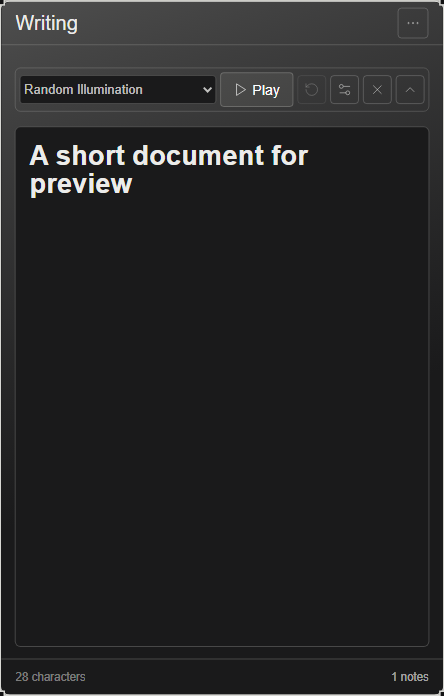
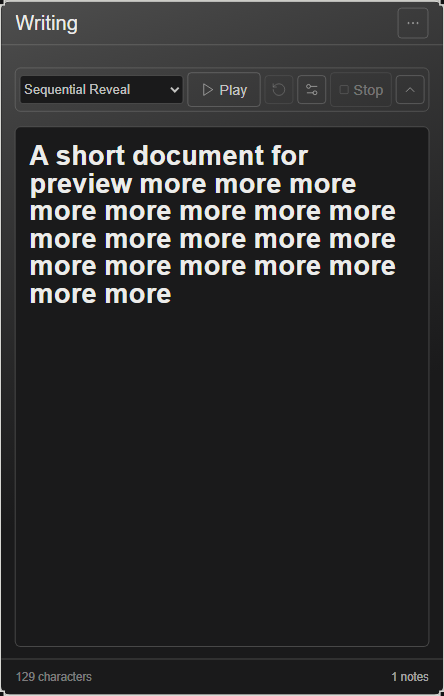
Let animations play with controls fully hidden

diff --git a/src/animations/AnimationControls.tsx b/src/animations/AnimationControls.tsx
@@ -1,6 +1,5 @@
 import { useEffect, useState } from 'react'
-import { createPortal } from 'react-dom'
-import { ChevronDown, ChevronUp, Play, Pause, RotateCcw, Settings2, X } from 'lucide-react'
+import { ChevronUp, Play, Pause, RotateCcw, Settings2, Square } from 'lucide-react'
 import type { NoteDocument } from '../types'
 import { panelContentProps } from '../panelSurface'
 import { AnimationPreview } from './AnimationPreview'
@@ -10,10 +9,9 @@ import { validateAnimationCss } from './css'
 import './animations.css'
 
 /** Panel-local playback and authoring state; definitions alone are persisted. */
-export function AnimationControls({ panelId, sourceElement, toolbarHost, writingMode, document, optionsOpen, onOptionsClose, managerOpen, onManagerOpen, onManagerClose, onPreviewChange }: {
+export function AnimationControls({ panelId, sourceElement, writingMode, document, optionsOpen, onOptionsClose, managerOpen, onManagerOpen, onManagerClose, onPreviewChange }: {
   panelId: string
   sourceElement: HTMLElement | null
-  toolbarHost: HTMLElement | null
   writingMode: boolean
   document: NoteDocument | null
   optionsOpen: boolean
@@ -28,7 +26,6 @@ export function AnimationControls({ panelId, sourceElement, toolbarHost, writing
   const [selectedId, setSelectedId] = useState(builtInAnimations[0].id)
   const [editCss, setEditCss] = useState(false)
   const [status, setStatus] = useState('')
-  const [optionsCollapsed, setOptionsCollapsed] = useState(false)
   const [playbackDefinition, setPlaybackDefinition] = useState<AnimationDefinition | null>(null)
   const [playing, setPlaying] = useState(false)
   const [finished, setFinished] = useState(false)
@@ -36,7 +33,6 @@ export function AnimationControls({ panelId, sourceElement, toolbarHost, writing
 
   useEffect(() => () => onPreviewChange(false), [onPreviewChange])
   useEffect(() => { if (managerOpen) setCustom(loadCustomAnimations()) }, [managerOpen])
-  useEffect(() => { if (!optionsOpen) setOptionsCollapsed(false) }, [optionsOpen])
 
   const savedDefinitions = [...builtInAnimations, ...custom]
   const unsavedDefinitions = Object.values(drafts).filter(draft => !savedDefinitions.some(saved => saved.id === draft.id))
@@ -104,18 +100,9 @@ export function AnimationControls({ panelId, sourceElement, toolbarHost, writing
   function exit() { setPlaying(false); setPlaybackDefinition(null); onPreviewChange(false) }
   function playOrPause() { if (playbackDefinition) togglePlayback(); else preview() }
 
-  const playbackToolbar = playbackDefinition ? <div className="animation-playback-toolbar" role="toolbar" aria-label="Animation playback">
-    <button type="button" className="card-icon-button" aria-label={playing ? 'Pause animation' : 'Play animation'} title={playing ? 'Pause' : 'Play'} onClick={togglePlayback}>{playing ? <Pause size={16} /> : <Play size={16} />}</button>
-    <button type="button" className="card-icon-button" aria-label="Replay animation" title="Replay" onClick={replay}><RotateCcw size={16} /></button>
-    <strong className="animation-playback-name" title={playbackDefinition.name}>{playbackDefinition.name}</strong>
-    <button type="button" className="card-icon-button" aria-label="Animation settings" title="Animation settings" onClick={onManagerOpen}><Settings2 size={16} /></button>
-    <button type="button" className="card-icon-button" aria-label="Exit animation" title="Exit animation" onClick={exit}><X size={16} /></button>
-  </div> : null
-
   return <>
     {optionsOpen && <div className="animation-options-host" {...panelContentProps}>
-      <div className={`animation-options-strip${optionsCollapsed ? ' is-collapsed' : ''}`} role="toolbar" aria-label="Animation options">
-        {optionsCollapsed ? <button type="button" className="app-chrome-control animation-options-reveal" aria-label="Show animation options" title="Show animation options" onClick={() => setOptionsCollapsed(false)}>Animations <ChevronDown size={16} /></button> : <>
+      <div className="animation-options-strip" role="toolbar" aria-label="Animation options">
         <select className="app-dropdown" aria-label="Animation" value={selected.id} onChange={event => select(event.target.value)}>
           <optgroup label="Built-in animations">{definitions.filter(definition => !definition.id.startsWith('custom-')).map(definition => <option key={definition.id} value={definition.id}>{definition.name}</option>)}</optgroup>
           {definitions.some(definition => definition.id.startsWith('custom-')) && <optgroup label="Custom animations">{definitions.filter(definition => definition.id.startsWith('custom-')).map(definition => <option key={definition.id} value={definition.id}>{definition.name}</option>)}</optgroup>}
@@ -123,14 +110,12 @@ export function AnimationControls({ panelId, sourceElement, toolbarHost, writing
         <button type="button" className="app-chrome-control animation-options-play" aria-label={playing ? 'Pause animation' : 'Play animation'} title={playing ? 'Pause animation' : 'Play animation'} onClick={playOrPause}>{playing ? <Pause size={16} /> : <Play size={16} />}<span className="animation-options-action-label">{playing ? 'Pause' : 'Play'}</span></button>
         <button type="button" className="card-icon-button" aria-label="Replay animation" title="Replay animation" disabled={!playbackDefinition} onClick={replay}><RotateCcw size={16} /></button>
         <button type="button" className="card-icon-button" aria-label="Animation settings" title="Animation settings" onClick={onManagerOpen}><Settings2 size={16} /></button>
-        <button type="button" className="card-icon-button" aria-label={playbackDefinition ? 'Exit animation' : 'Close animation options'} title={playbackDefinition ? 'Exit animation' : 'Close animation options'} onClick={playbackDefinition ? exit : onOptionsClose}><X size={16} /></button>
-        <button type="button" className="card-icon-button" aria-label="Hide animation options" title="Hide animation options" onClick={() => setOptionsCollapsed(true)}><ChevronUp size={16} /></button>
-        </>}
+        <button type="button" className="app-chrome-control animation-options-stop" aria-label="Stop animation" title="Stop animation" disabled={!playbackDefinition} onClick={exit}><Square size={14} /><span className="animation-options-action-label">Stop</span></button>
+        <button type="button" className="card-icon-button" aria-label="Hide animation options" title="Hide animation options" onClick={onOptionsClose}><ChevronUp size={16} /></button>
       </div>
-      {status && !optionsCollapsed && <p className="animation-options-status" role="status">{status}</p>}
+      {status && <p className="animation-options-status" role="status">{status}</p>}
     </div>}
     {playbackDefinition && <div className="animation-playback" {...panelContentProps}>
-      {!optionsOpen && (toolbarHost ? createPortal(playbackToolbar, toolbarHost) : playbackToolbar)}
       <AnimationPreview key={`${playbackDefinition.id}:${run}`} document={document} definition={playbackDefinition} playing={playing} run={run} writingMode={writingMode} onFinish={() => { setPlaying(false); setFinished(true) }} />
     </div>}
     {managerOpen && <AnimationWindow

diff --git a/browser-tests/text-animations.spec.ts b/browser-tests/text-animations.spec.ts
@@ -8,7 +8,6 @@ async function openAnimations(panel: Locator) {
     await panel.page().getByRole('menuitemcheckbox', { name: 'Animations' }).click()
   }
   await expect(strip).toBeVisible()
-  if (await strip.getByRole('button', { name: 'Show animation options' }).isVisible()) await strip.getByRole('button', { name: 'Show animation options' }).click()
   await strip.getByRole('button', { name: 'Animation settings' }).click()
   return panel.page().getByRole('dialog', { name: 'Animation management' })
 }
@@ -18,18 +17,19 @@ test('the Animations action opens basic options below the header', async ({ page
   const note = await panelOfType(page, 'notes')
   const panel = await shapeOf(page, note.panelId)
   const editor = noteBodyOf(panel)
-  await editor.fill('A short document for preview')
+  await editor.fill(`A short document for preview ${'more '.repeat(20)}`)
   await expect(panel.getByRole('toolbar', { name: 'Animation options' })).toHaveCount(0)
   await panel.getByRole('button', { name: 'Writing panel actions' }).click()
   await page.getByRole('menuitemcheckbox', { name: 'Animations' }).click()
   const strip = panel.getByRole('toolbar', { name: 'Animation options' })
   await expect(strip).toBeVisible()
   await expect(page.getByRole('dialog', { name: 'Animation management' })).toHaveCount(0)
-  await strip.getByRole('combobox', { name: 'Animation' }).selectOption('random-illumination')
+  await strip.getByRole('combobox', { name: 'Animation' }).selectOption('sequential-reveal')
   await strip.getByRole('button', { name: 'Hide animation options' }).click()
-  await expect(strip.getByRole('combobox', { name: 'Animation' })).toHaveCount(0)
-  await strip.getByRole('button', { name: 'Show animation options' }).click()
-  await expect(strip.getByRole('combobox', { name: 'Animation' })).toHaveValue('random-illumination')
+  await expect(strip).toHaveCount(0)
+  await panel.getByRole('button', { name: 'Writing panel actions' }).click()
+  await page.getByRole('menuitemcheckbox', { name: 'Animations' }).click()
+  await expect(strip.getByRole('combobox', { name: 'Animation' })).toHaveValue('sequential-reveal')
   await panel.screenshot({ path: 'test-results/animations-basic-options.png' })
   for (const width of [320, 390, 600, 900]) {
     await dispatch(page, { kind: 'panel.resize', panelId: note.panelId, w: width, h: 650 })
@@ -47,20 +47,26 @@ test('the Animations action opens basic options below the header', async ({ page
   await strip.getByRole('button', { name: 'Play animation', exact: true }).click()
   await expect(panel.locator('.animation-preview-host')).toContainText('A short document for preview')
   await expect(strip).toBeVisible()
-  await expect(strip.getByRole('combobox', { name: 'Animation' })).toHaveValue('random-illumination')
+  await expect(strip.getByRole('combobox', { name: 'Animation' })).toHaveValue('sequential-reveal')
   await expect(strip.getByRole('button', { name: 'Pause animation' })).toBeVisible()
   const selectorDuring = await strip.getByRole('combobox', { name: 'Animation' }).boundingBox()
   expect(selectorDuring!.x).toBe(selectorBefore!.x)
   expect(selectorDuring!.width).toBe(selectorBefore!.width)
   await expect(panel.getByRole('toolbar', { name: 'Animation playback' })).toHaveCount(0)
+  const revealedBeforeHide = await panel.locator('.word[data-revealed="true"]').count()
   await strip.getByRole('button', { name: 'Hide animation options' }).click()
+  await expect(strip).toHaveCount(0)
   await expect(panel.locator('.animation-preview-host')).toBeVisible()
-  await strip.getByRole('button', { name: 'Show animation options' }).click()
-  await expect(strip.getByRole('combobox', { name: 'Animation' })).toHaveValue('random-illumination')
-  await strip.getByRole('button', { name: 'Exit animation' }).click()
+  await expect(panel.getByRole('toolbar', { name: 'Animation playback' })).toHaveCount(0)
+  await expect.poll(() => panel.locator('.word[data-revealed="true"]').count()).toBeGreaterThan(revealedBeforeHide)
+  await panel.screenshot({ path: 'test-results/animations-playback-hidden.png' })
+  await panel.getByRole('button', { name: 'Writing panel actions' }).click()
+  await page.getByRole('menuitemcheckbox', { name: 'Animations' }).click()
+  await expect(strip.getByRole('combobox', { name: 'Animation' })).toHaveValue('sequential-reveal')
+  await strip.getByRole('button', { name: 'Stop animation' }).click()
   await expect(strip.getByRole('button', { name: 'Play animation', exact: true })).toBeVisible()
   await expect(editor).toBeVisible()
-  await strip.getByRole('button', { name: 'Close animation options' }).click()
+  await strip.getByRole('button', { name: 'Hide animation options' }).click()
   await expect(strip).toHaveCount(0)
 })
 
@@ -91,7 +97,7 @@ test('start delay waits before playback and keeps its remaining time when paused
   await expect(firstWord).toHaveAttribute('data-revealed', 'true', { timeout: 3000 })
   await strip.getByRole('button', { name: 'Replay animation' }).click()
   await expect(panel.locator('.animation-preview-host .word').first()).toHaveAttribute('data-revealed', 'false')
-  await strip.getByRole('button', { name: 'Exit animation' }).click()
+  await strip.getByRole('button', { name: 'Stop animation' }).click()
   await expect(editor).toContainText('One two three four')
 })
 
@@ -159,7 +165,7 @@ test('writing stays clear; playback and authoring are separate', async ({ page }
   expect(await panel.locator('.card-title').evaluate(element => getComputedStyle(element).color)).not.toBe('rgb(255, 0, 0)')
   await manager.getByRole('button', { name: 'Close animation window' }).click()
   await panel.screenshot({ path: 'test-results/animations-playback.png' })
-  await panel.getByRole('button', { name: 'Exit animation' }).click()
+  await panel.getByRole('button', { name: 'Stop animation' }).click()
   await expect(editor).toBeVisible()
   expect(await editor.innerText()).toBe(original)
   await editor.click()
@@ -290,7 +296,7 @@ test('Editor mode can open animation management and return to writing', async ({
   const leftWindow = await page.locator('.spike-window').first().boundingBox()
   expect(wordBox!.x).toBeGreaterThan(leftWindow!.x + leftWindow!.width)
   await writing.screenshot({ path: 'test-results/animations-editor-mode.png' })
-  await writing.getByRole('button', { name: 'Exit animation' }).click()
+  await writing.getByRole('button', { name: 'Stop animation' }).click()
   await expect(editor).toBeVisible()
   await expect(editor).toContainText('Words on the page')
 })

diff --git a/src/animations/animations.css b/src/animations/animations.css
@@ -1,27 +1,15 @@
 .animation-options-host { flex: 0 0 auto; min-width: 0; width: 100%; padding-block: var(--space-detail-5) var(--space-detail-2); container-type: inline-size; }
 .animation-options-strip { box-sizing: border-box; display: flex; align-items: center; gap: var(--space-detail-1); width: min(100%, 480px); margin-inline: auto; padding: var(--space-detail-1); border: var(--border-width-hairline) solid var(--color-panel-border); border-radius: var(--radius-control); }
-.animation-options-strip.is-collapsed { width: max-content; max-width: 100%; }
 .animation-options-strip select { flex: 1 1 auto; min-width: 0; width: 0; height: var(--card-header-button-size); }
 .animation-options-strip button { flex: 0 0 auto; }
-.animation-options-strip .animation-options-play { display: inline-flex; align-items: center; justify-content: center; gap: 4px; width: 76px; }
-.animation-options-reveal { display: inline-flex; align-items: center; gap: 6px; }
+.animation-options-strip .animation-options-play, .animation-options-strip .animation-options-stop { display: inline-flex; align-items: center; justify-content: center; gap: 4px; width: 76px; }
+.animation-options-strip .animation-options-stop { width: 64px; }
 .animation-options-status { margin: 5px auto 0; max-width: 480px; color: var(--color-text-soft); font-size: var(--type-xs); }
 .canvas-panel-shell.is-full-screen .panel-notes-surface.is-writing-mode .animation-options-host { width: min(var(--writing-paper-width), calc(100% - (var(--card-padding) * 2))); margin-inline: auto; }
-@container (max-width: 350px) { .animation-options-strip .animation-options-play { width: var(--card-header-button-size); }.animation-options-action-label { display: none; } }
+@container (max-width: 350px) { .animation-options-strip .animation-options-play, .animation-options-strip .animation-options-stop { width: var(--card-header-button-size); }.animation-options-action-label { display: none; } }
 .notes-body > .animation-playback { flex: 1 1 auto; min-height: 0; }
 .animation-playback { display: flex; flex-direction: column; min-width: 0; container-type: inline-size; }
-.animation-playback-toolbar { display: flex; align-items: center; gap: 5px; min-width: 0; padding: 3px var(--card-padding); }
-.animation-playback-toolbar .card-icon-button { flex: 0 0 auto; }
-.animation-playback-name { flex: 1 1 auto; min-width: 0; overflow: hidden; white-space: nowrap; text-overflow: ellipsis; color: var(--color-text-soft); font-size: var(--font-size-notes-control-label); }
-.animation-header-toolbar { min-width: 0; }
-.animation-header-toolbar:empty { display: none; }
-.animation-header-toolbar .animation-playback-toolbar { padding: 0; }
-.animation-header-toolbar .animation-playback-name { flex: 0 1 150px; }
 .animation-preview-host { flex: 1 1 auto; min-height: 0; overflow: auto; background: var(--color-editor-bg); color: var(--color-input-text); border-radius: var(--radius-editor); }
-@container (max-width: 350px) {
-  .animation-playback-toolbar { flex-wrap: wrap; }
-  .animation-playback-name { order: -1; flex-basis: 100%; }
-}
 
 .animation-window { position: fixed; z-index: 8; display: flex; flex-direction: column; box-sizing: border-box; overflow: hidden; background: var(--panel-content-background); color: var(--text-primary); border: var(--card-border); border-radius: var(--radius-large); box-shadow: var(--shadow-panel); font-family: var(--font-family-ui); font-size: var(--type-sm); --accent: var(--accent-notes); --bg: var(--bg-notes); }
 .animation-window:focus { outline: none; }

diff --git a/src/panels/NotesPanel.tsx b/src/panels/NotesPanel.tsx
@@ -65,7 +65,6 @@ export function NotesPanel({ panelId }: { panelId: string }) {
   // The writing tools are drawn into this by the editor, which is what lets
   // them read the caret; the panel only decides where they sit.
   const toolbarHostRef = useRef<HTMLDivElement>(null)
-  const animationToolbarHostRef = useRef<HTMLDivElement>(null)
   const sectionRef = useRef<HTMLElement>(null)
   const writingMilestonesRef = useRef({ noteId: null as string | null, started: false, fiftyWords: false, twoHundredWords: false })
   const wasInWritingModeRef = useRef(isWritingMode)
@@ -278,7 +277,6 @@ export function NotesPanel({ panelId }: { panelId: string }) {
           },
         ] }]}
       >
-        {isWritingMode ? <div className="animation-header-toolbar" ref={animationToolbarHostRef} /> : null}
         {isWritingMode && !animationPreview ? (
           <div className="notes-zoom-control" role="group" aria-label="Zoom">
             <button className="card-icon-button" type="button" title="Zoom out" aria-label="Zoom out" disabled={zoom <= minZoom} onClick={() => setZoom(zoom - zoomStep)}>
@@ -324,7 +322,7 @@ export function NotesPanel({ panelId }: { panelId: string }) {
           </div>
         )}
 
-        {activeNote && !momentView && <AnimationControls key={activeNote.id} panelId={panelId} sourceElement={sectionRef.current} toolbarHost={isWritingMode ? animationToolbarHostRef.current : null} writingMode={isWritingMode} document={animationDocument} optionsOpen={animationOptionsOpen} onOptionsClose={() => setAnimationOptionsOpen(false)} managerOpen={animationManagerOpen} onManagerOpen={openAnimationManager} onManagerClose={closeAnimationManager} onPreviewChange={handleAnimationPreviewChange} />}
+        {activeNote && !momentView && <AnimationControls key={activeNote.id} panelId={panelId} sourceElement={sectionRef.current} writingMode={isWritingMode} document={animationDocument} optionsOpen={animationOptionsOpen} onOptionsClose={() => setAnimationOptionsOpen(false)} managerOpen={animationManagerOpen} onManagerOpen={openAnimationManager} onManagerClose={closeAnimationManager} onPreviewChange={handleAnimationPreviewChange} />}
 
         {/* Always rendered, hidden when the writer has not asked for it:
             the editor draws the tools into this element as it starts, and a

diff --git a/docs/text-animations.md b/docs/text-animations.md
@@ -30,7 +30,7 @@ The two built-ins have the same format and execute through the same preview rend
 
 ## Creating an animation
 
-Open the Writing panel's **···** menu and choose **Animations**. A compact strip below the Writing header lets you choose an animation and press **Play**. The selector stays in place during playback; the same strip offers pause, replay, settings, and exit. The chevron hides the controls and leaves a **Show animation options** button. Settings opens the movable, resizable window for parameters, duplication, and CSS editing. Closing the window leaves playback running; exiting playback returns to the mounted editor without changing its content or undo history.
+Open the Writing panel's **···** menu and choose **Animations**. A compact strip below the Writing header lets you choose an animation and press **Play**. The selector stays in place during playback; the same strip offers pause, replay, settings, and an explicit **Stop** action. The chevron hides the entire strip while the animation continues. Open **Animations** from the panel menu again to reveal the controls; **Stop** then returns to the mounted editor without changing its content or undo history. Settings opens the movable, resizable window for parameters, duplication, and CSS editing. Closing that window leaves playback running.
 
 Built-in definitions are immutable. Their parameter adjustments are temporary preview settings. Press **Duplicate** to make an editable copy, or **New animation** to start from a simple word rule. A custom animation shows **Unsaved changes** until saved. **Edit CSS** opens its name and CSS fields; built-ins offer **View CSS** as read-only. **Save animation** persists the definition in this browser's `localStorage` under `mic:text-animations:v1`, separate from notes and boards. Closing and reopening the window keeps unsaved edits for the current panel session. Changing the active note, hiding or deleting the source panel, or switching boards closes its window and playback; saved definitions remain available locally.
 
